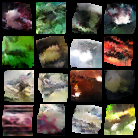
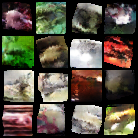
should work now

diff --git a/backend/app.py b/backend/app.py
@@ -39,7 +39,6 @@ class AxolotlImageAPI:
             DATA_DIR = os.path.join(os.path.dirname(__file__), 'data')
             SAMPLE_DIR = os.path.join(DATA_DIR, 'gan_samples')
             FULL_MODEL_PATH = os.path.join(DATA_DIR, 'gan_full_model.pth')
-            CHECKPOINT_PATH = os.path.join(DATA_DIR, 'gan_checkpoint.pth')
             IMG_SIZE = 32
             Z_DIM = 100
             DEVICE = torch.device('cpu')
@@ -52,19 +51,15 @@ class AxolotlImageAPI:
                     self.G = Generator(z_dim=z_dim, img_channels=3, img_size=img_size).to(device)
                     self.fixed_noise = torch.randn(16, z_dim, 1, 1, device=device)
                 def load_model(self):
-                    # Prefer full model if available
                     if os.path.exists(FULL_MODEL_PATH):
                         log(f"Loading full model from: {FULL_MODEL_PATH}")
                         checkpoint = torch.load(FULL_MODEL_PATH, map_location=self.device)
-                    elif os.path.exists(CHECKPOINT_PATH):
-                        log(f"Loading checkpoint from: {CHECKPOINT_PATH}")
-                        checkpoint = torch.load(CHECKPOINT_PATH, map_location=self.device)
+                        log(f"Checkpoint keys: {list(checkpoint.keys())}")
+                        self.G.load_state_dict(checkpoint['G'])
+                        log("Loaded model for generating sample")
                     else:
-                        log("No model file found, using untrained generator")
-                        return
-                    log(f"Checkpoint keys: {list(checkpoint.keys())}")
-                    self.G.load_state_dict(checkpoint['G'])
-                    log("Loaded model for generating sample")
+                        log("ERROR: Full model file (gan_full_model.pth) not found. Aborting.")
+                        raise FileNotFoundError("Full model file (gan_full_model.pth) not found.")
                 def generate_sample(self):
                     log("Calling G.eval() and generating image...")
                     self.G.eval()
